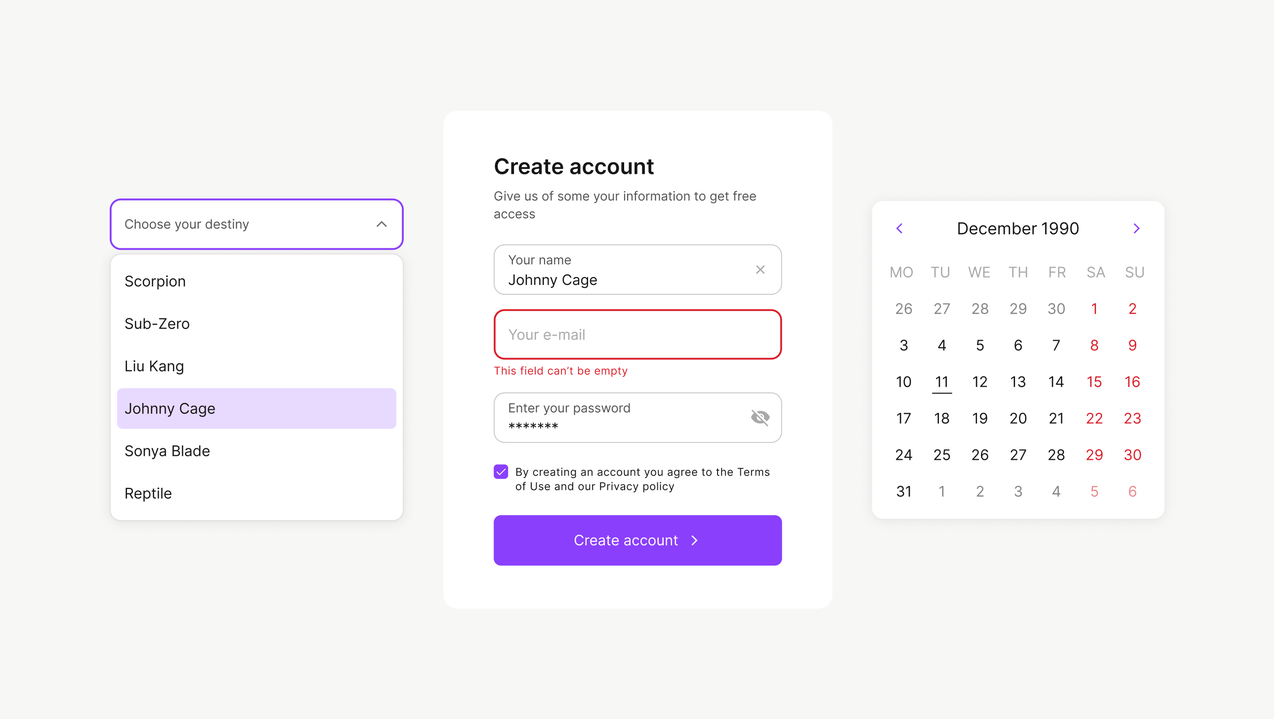
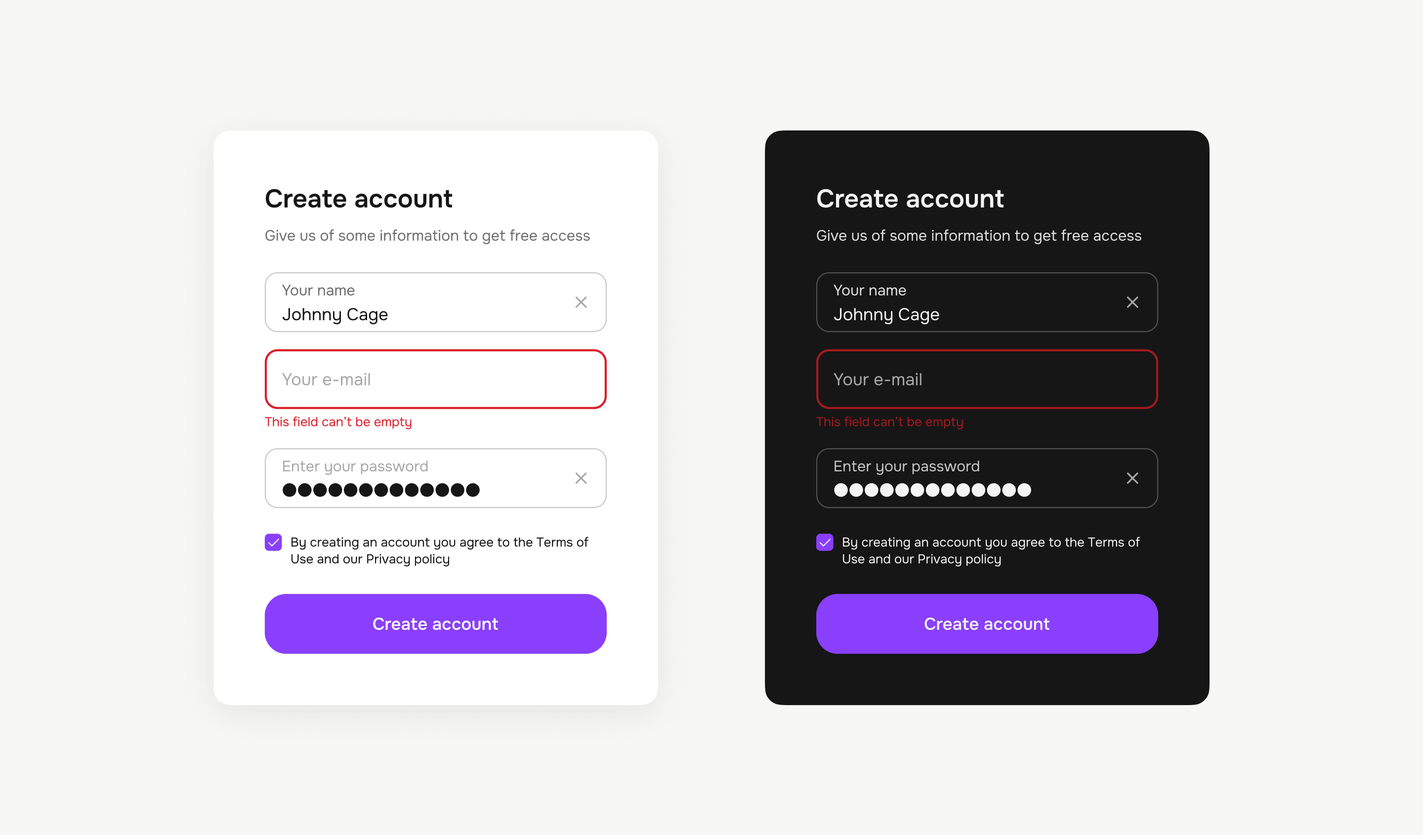
Add files via upload

diff --git a/pages/project-2/index.html b/pages/project-2/index.html
@@ -9,7 +9,7 @@
         <meta property="og:image" content="https://raw.githubusercontent.com/hirundos-dev/portfolio/39d405a6b50ae633b20c36abb84172a64d279941/images/social.png">
 
 
-    <title>Palka UI-kit / Портфолио Андрей Лынник</title>
+    <title>Palka DS / Портфолио Андрей Лынник</title>
     <link rel="icon" type="image/png" href="../../images/favicon-inverted.png" />
     <meta name="viewport" content="width=device-width, initial-scale=1" />
     <link rel="stylesheet" href="../../css/colors.css" />
@@ -50,9 +50,9 @@
           <div class="ids__space L"></div>
           <div class="ids__text-width">
             <ids-nav-item id="intro" label="Интро">
-              <h2>Palka UI-kit — библиотека компонентов для&#160;ускорения работы над&#160;проектами</h2>
-              <p>Чтобы ускорить работу на&#160;проектах, cобрал собственный UI-кит, состоящий из&#160;компонентов, 
-                вариантов, переменных и&#160;документации. Неидеальный, но&#160;благодаря постоянному использованию он&#160;развивается.</p>
+              <h2>Design system Palka&#160;UI</h2>
+              <p>Чтобы ускорить работу на&nbsp;проектах, собрал собственную библиотеку компонентов, в&nbsp;которой есть 
+                варианты, токены, стили и&nbsp;спецификации. Она постоянно обновляется и&nbsp;дополняется</p>
               </ids-nav-item>
             <div class="ids__space S"></div>
 
@@ -72,61 +72,57 @@
           <div class="ids__space L"></div>
           <div class="ids__text-width">
             
-            <h3>Контекст</h3>
-            <p>При работе над каждым новым проектом тратишь время на создание элементов интерфейса и стилей с нуля. Если пытаешься использовать чужие готовые компоненты, сталкиваешься со сложностями начиная от нейминга и заканчивая структурой. В итоге тратишь время впустую.</p>
+            <h3>Описание проблемы и&nbsp;цели</h3>
+            <p>При работе над каждым новым проектом тратишь время на&nbsp;создание элементов интерфейса и&nbsp;стилей 
+              с&nbsp;нуля. Если использовать чужие готовые решения, то&nbsp;необходимо время на&nbsp;адаптацию и&nbsp;согласование. 
+              Поэтому основная цель&nbsp;&mdash; ускорить собственную работу и&nbsp;оптимизировать взаимодействие с&nbsp;разработчиками</p>
             <div class="ids__space L"></div> 
-            <h3>Идея</h3>
-            <p>А что если собрать собственный UI-кит с универсальными правилами и возможностью масштабирования, можно ли сократить время работы над проектом?</p>
+            <h3>Исследование</h3>
+            <p>Провел анализ действующих дизайн-систем и&nbsp;доступных UI-китов из&nbsp;Figma Community, выделил для себя удачные и&nbsp;неудачные решения, 
+              минимальный набор компонентов и&nbsp;требований.</p>
+            <div class="ids__space S"></div>   
+            <p> <strong>UPD.</strong> По&nbsp;итогам использования библиотеки на&nbsp;нескольких проектах, а&nbsp;также работы с&nbsp;дизайн-системой международного инвестиционно-банковского 
+              холдинга появилось понимание как можно сделать ее&nbsp;еще более гибкой и&nbsp;масштабируемой</p>
             <div class="ids__space L"></div> 
-            <h3>Что было сделано</h3>
-            <p>Провел анализ действующих дизайн-систем и доступных UI-китов из Figma Community, по результатам которого появилось понимание примерной структуры UI-кита.</p>
-            <div class="ids__space S"></div>
-            <div class="ids__sequence XL gap-M">
-
-              <div class="ids__sequence-item">
-                <h5>Основные элементы:</h5>
-                <ul>
-                  <li>цвет;</li>
-                  <li>типографика;</li>
-                  <li>иконки;</li>
-                  <li>компоненты.</li>
-                </ul>
-              </div>
-          
-              <div class="ids__sequence-item">
-                <h5>Дополнительные элементы:</h5>
-                <ul>
-                  <li>тени;</li>
-                  <li>расстояния и скругления;</li>
-                  <li>сетка;</li>
-                  <li>плагины.</li>
-                </ul>
-              </div>
-            </div> 
+            <h3>Результат</h3>
+            <p>Сейчас в&nbsp;Figma Community доступна <a href="https://www.figma.com/community/file/1236297009994552407" target="_BLANK">вторая версия Palka UI</a>. Работа над новой версией еще 
+              не&nbsp;завершена, но&nbsp;уже понятно, как она будет работать. Поэтому далее показываю процесс и&nbsp;принципы работы дизайн-системы</p>
+            
           </div>
         </div>
           
-        <div class="section sleepy sleeping" id="block-2">
-          <div class="ids__space L"></div> 
-          <div class="ids__text-width ">
-            
-            <h3>Результат</h3>
-            <p>Понравилось название Palka. Палка с древних времен самый доступный предмет, её можно использовать в качестве инструмента, оружия или игрушки. Это название коррелирует с концепцией проекта — простота и универсальность.<br><br>Теперь прототипирование, создание стилей и кастомизация компонентов для проекта происходит быстрее, минимальная разница составила 2 часа.</p>
-           <div class="ids__space"></div>
-          <a href="https://www.figma.com/community/file/1236297009994552407" target="_BLANK">Palka UI в Community Figma</a></div>
-        </div>
-          
+      
 
 <ids-nav-item id="Images" label="Картинки"></ids-nav-item>
 <div class="section sleepy sleeping" id="block-3">
           <div class="ids__space XL"></div>
           
           <div class="ids__text-width ">
-          <h5>Цветовая система</h5>
-          <p>Поскольку UI-кит подразумевается как универсальный инструмент, его цветовая система должна подстраиваться и масштабироваться под каждый проект с минимальными затратами по времени.</p></div>
+          <h5>Цвет</h5>
+          
+        <ul>
+          <p>Цветовая система состоит из двух уровней:</p>
+            <li>Палитра (примитивы)&nbsp;&mdash; набор исходных цветов с&nbsp;оттенками;</li>
+            <li>Семантические токены&nbsp;&mdash; цвета на&nbsp;основе их&nbsp;ролей (для текста, фонов, границ и&nbsp;т.д.)</li>
+            <p>По&nbsp;умолчанию палитра скрыта, а&nbsp;семантические токены применяются к&nbsp;соответствующим слоям. При&nbsp;необходимости можно настроить под&nbsp;свои задачи.</p>
+          </ul>
+        <div class="ids__space S"></div>
+<p>На&nbsp;бесплатном тарифе используем для каждой темы свою коллекцию и&nbsp;переключаемся между ними с&nbsp;помощью плагина <a href="https://www.figma.com/community/plugin/1334258818515407420/swap-variables" target="_BLANK">Swap Variables</a>. 
+  На&nbsp;платном тарифе удобнее использовать нативное переключение тем через токены</p>
+
+        </div>
             <div class="ids__space S"></div>
           <figure>
-          <img src="assets/img-01.avif" style="border-radius: 1em;">
+          <img src="assets/img-01.png" style="border-radius: 1em;">
+          </figure>
+           <div class="ids__space S"></div>
+         
+          <figure>
+          <img src="assets/img-02.png" style="border-radius: 1em;">
+          </figure>
+           <div class="ids__space S"></div>
+          <figure>
+          <img src="assets/img-03.png" style="border-radius: 1em;">
           </figure>
 </div>
       
@@ -135,10 +131,27 @@
           
           <div class="ids__text-width ">
           <h5>Типографика</h5>
-          <p>Текстовые стили составляем от самого крупного кегля до маленького.</p></div>
+          <p>По&nbsp;умолчанию используем для web Onest, а&nbsp;для Android и&nbsp;IOS нативные шрифты&nbsp;&mdash; Roboto и&nbsp;SF&nbsp;Pro Display соответственно.</p>
+        <div class="ids__space S"></div>
+        <p>Для каждого параметра стиля текста используем свою размерную сетку. Название токена получается путем умножения числа 5&nbsp;на предполагаемый размер. Например, 
+          12*5=60, 14*5=70 и&nbsp;так далее. Для каждой группы параметров свои размеры. </p>
+           <div class="ids__space S"></div>
+           <p>На&nbsp;бесплатном тарифе используем для каждой темы свой набор стилей и&nbsp;переключаемся между ними с&nbsp;помощью плагина <a href="https://www.figma.com/community/plugin/833287008340340220/swapper" target="_BLANK">Swapper</a>. 
+            На&nbsp;платном тарифе удобнее использовать плагин <a href="https://www.figma.com/community/plugin/731176732337510831/themer" target="_BLANK">Themer</a> и&nbsp;опубликованные библиотеки стилей</p>
+           
+        
+        </div>
           <div class="ids__space S"></div>
           <figure>
-          <img src="assets/img-02.png" style="border-radius: 1em;">
+          <img src="assets/img-04.png" style="border-radius: 1em;">
+          </figure>
+          <div class="ids__space S"></div>
+          <figure>
+          <img src="assets/img-05.png" style="border-radius: 1em;">
+          </figure>
+          <div class="ids__space S"></div>
+          <figure>
+          <img src="assets/img-06.png" style="border-radius: 1em;">
           </figure>
 </div>
 
@@ -146,11 +159,14 @@
           <div class="ids__space XL"></div>
           
           <div class="ids__text-width ">
-          <h5>Иконки</h5>
-          <p>Используем open-source интерфейсные иконки Feathericons. Если не подойдет, то есть много других хороших open-source иконок.</p></div>
+          <h5>Тени</h5>
+          <p>Тень&nbsp;&mdash; мощный инструмент, который добавляет реалистичности и&nbsp;глубины в&nbsp;дизайн, а&nbsp;также 
+            помогает распознавать иерархию элементов. На&nbsp;бесплатном тарифе используем для каждой темы свой набор стилей и&nbsp;переключаемся между ними 
+            с&nbsp;помощью плагина <a href="https://www.figma.com/community/plugin/833287008340340220/swapper" target="_BLANK">Swapper</a>. 
+            На&nbsp;платном тарифе удобнее использовать нативное переключение тем через токены</p></div>
           <div class="ids__space S"></div>
           <figure>
-          <img src="assets/img-03.png" style="border-radius: 1em;">
+          <img src="assets/img-07.png" style="border-radius: 1em;">
           </figure>
 </div>
 
@@ -158,36 +174,99 @@
           <div class="ids__space XL"></div>
           
           <div class="ids__text-width ">
-          <h5>Компоненты</h5>
-          <p>Выбрал основные элементы интерфейса, которые встречаются в большинстве проектов.</p></div>
+          <h5>Иконки</h5>
+          <p>Используем Phosphor. Основной принцип&nbsp;&mdash; если используем stroke, то&nbsp;тогда лучше чтобы иконки были разных размеров, если fill, то&nbsp;можно 
+            попробовать просто менять их&nbsp;размер. Используем Union, чтобы цвет не&nbsp;менялся при swap. </p>
+          <div class="ids__space S"></div>
+          <P>Чтобы понять что перед нами стандартная иконка, используем необычный вариант и&nbsp;название placeholder.</P>
+           <div class="ids__space S"></div>
+           <p>Пока в&nbsp;процессе наполнения иконками, которые непосредственно используются в&nbsp;компонентах</p>
+          
+          </div>
           <div class="ids__space S"></div>
           <figure>
-          <img src="assets/img-04.webp" style="border-radius: 1em;">
+          <img src="assets/img-08.png" style="border-radius: 1em;">
           </figure>
 </div>
 
-<div class="section sleepy sleeping" id="block-7">
+<div class="section sleepy sleeping" id="block-6">
           <div class="ids__space XL"></div>
           
           <div class="ids__text-width ">
-          <h5>Остальное</h5>
-          <p>Также определил выделил основные правила для теней, расстояний, скруглений и сетки.</p></div>
+          <h5>Размеры</h5>
+          <p>Базовый модуль интерфейса&nbsp;&mdash; 8px. Плюс есть два подмодуля 4px и&nbsp;2px.
+На&nbsp;их&nbsp;основе строятся типографика, элементы интерфейса и&nbsp;отступы между ними, а&nbsp;также размеры иконок. Все это делает 
+дизайн более предсказуемым, упрощает выбор размеров и&nbsp;ускоряет перевод дизайна в&nbsp;код.</p>
+          <div class="ids__space S"></div>
+          <P>В&nbsp;названии использую умножение на&nbsp;5. Например, значение&nbsp;4, а&nbsp;имя &laquo;20&raquo;, значение&nbsp;8, а&nbsp;имя &laquo;40&raquo;, 
+            значение&nbsp;16, а&nbsp;имя &laquo;80&raquo;. Это чуть проще чем абстрактные.</P>
+           <div class="ids__space S"></div>
+           <p>Точка роста&nbsp;&mdash; использовать для размеров и&nbsp;расстояний модуль 16px, чтобы для масштабирования размеров использовать множитель, по&nbsp;примеру кода. 
+            Например, size.100 * 0.5 = 8px, size.100 * 2.75 = 36px и&nbsp;т.&nbsp;д.</p>
+          
+          </div>
           <div class="ids__space S"></div>
           <figure>
-          <img src="assets/img-05.webp" style="border-radius: 1em;">
+          <img src="assets/img-09.png" style="border-radius: 1em;">
           </figure>
+          <div class="ids__space S"></div>
+          <figure>
+          <img src="assets/img-10.png" style="border-radius: 1em;">
+          </figure>
+</div>
+
+<div id="block-7">
+          <div class="ids__space XL"></div>
+          
+          <div class="ids__text-width ">
+          <h5>Компоненты</h5>
+          <p>Для каждого элемента интерфейса есть доски с&nbsp;компонентами, документацией&nbsp;и, если это необходимо, с&nbsp;анимацией. 
+            Чтобы не&nbsp;сильно нагружать память Figma делим компоненты по&nbsp;группам (размер, стиль и&nbsp;т.д.). Все важные особенности указываем в&nbsp;описании 
+            к&nbsp;компоненту.</p>
+          <div class="ids__space S"></div>
+          <P>Настройки, которые доступны для дизайнера отражаются в&nbsp;правой панели, все остальное руками трогать запрещено т.к.&nbsp;в&nbsp;противном случае это породит 
+            разночтение с&nbsp;разработкой. Слои в&nbsp;компоненте собираем максимально приближенно к&nbsp;реализации в&nbsp;коде.</P>
+           <div class="ids__space S"></div>
+           <p>В&nbsp;компонент закладываем только необходимые для проектирования состояния (стандарное, загрузка, скелетон, недоступно), иные состояния отражаем в&nbsp;документации 
+            и\или в&nbsp;анимации, чтобы не&nbsp;таскать по&nbsp;макетам лишние сущности.</p>
+            <div class="ids__space S"></div>
+            <p>Для гибкости используем вложенные компоненты и&nbsp;переиспользуем&nbsp;их. Также планируется использование слотов, чтобы наполнение можно было менять без детача</p>
+
+
+          </div>
+          <div class="ids__space S"></div>
+          <figure>
+          <img src="assets/img-11.png" style="border-radius: 1em;">
+          </figure>
+          <div class="ids__space S"></div>
+          <figure>
+          <img src="assets/img-12.png" style="border-radius: 1em;">
+          </figure>
+          <div class="ids__space S"></div>
+          <figure>
+          <img src="assets/img-13.png" style="border-radius: 1em;">
+          </figure>
+          <div class="ids__space S"></div>
+          <figure>
+          <img src="assets/img-14.png" style="border-radius: 1em;">
+          </figure>
+           <div class="ids__space S"></div>
+          <figure>
+          <img src="assets/img-15.png" style="border-radius: 1em;">
+          </figure>
+          
 </div>
 
 
         <div class="ids__space XL"></div>
         <div class="project-navigation">
-  <a href="..\project-1\index.html" class="project-card prev">
+  <a href="..\project-5\index.html" class="project-card prev">
     <div class="label">
     <svg class="" width="24" height="24" viewBox="0 0 24 24" xmlns="http://www.w3.org/2000/svg"><path transform="rotate(180 12 12)" d="M13.4681 6.25911C13.1437 6.579 13.1132 7.08447 13.3792 7.43913L13.4591 7.53187L16.95 11.1L4.9 11.1C4.40294 11.1 4 11.5029 4 12C4 12.4588 4.34334 12.8375 4.78711 12.893L4.9 12.9H16.95L13.4591 16.4681C13.1392 16.7926 13.116 17.2984 13.3869 17.6493L13.4681 17.7409C13.7926 18.0608 14.2985 18.084 14.6493 17.8131L14.7409 17.7319L19.7409 12.6319C20.0576 12.3107 20.084 11.8109 19.8201 11.4599L19.7409 11.3681L14.7409 6.26813C14.3919 5.91418 13.8221 5.91014 13.4681 6.25911Z"></path></svg>
      
       Назад
     </div>
-    <div class="project-name">Редизайн электронной записи к&nbsp;врачу</div>
+    <div class="project-name">RentCraft&nbsp;&mdash; портал объявлений</div>
   </a>
 
   <a href="../../index.html" class="project-card next">
